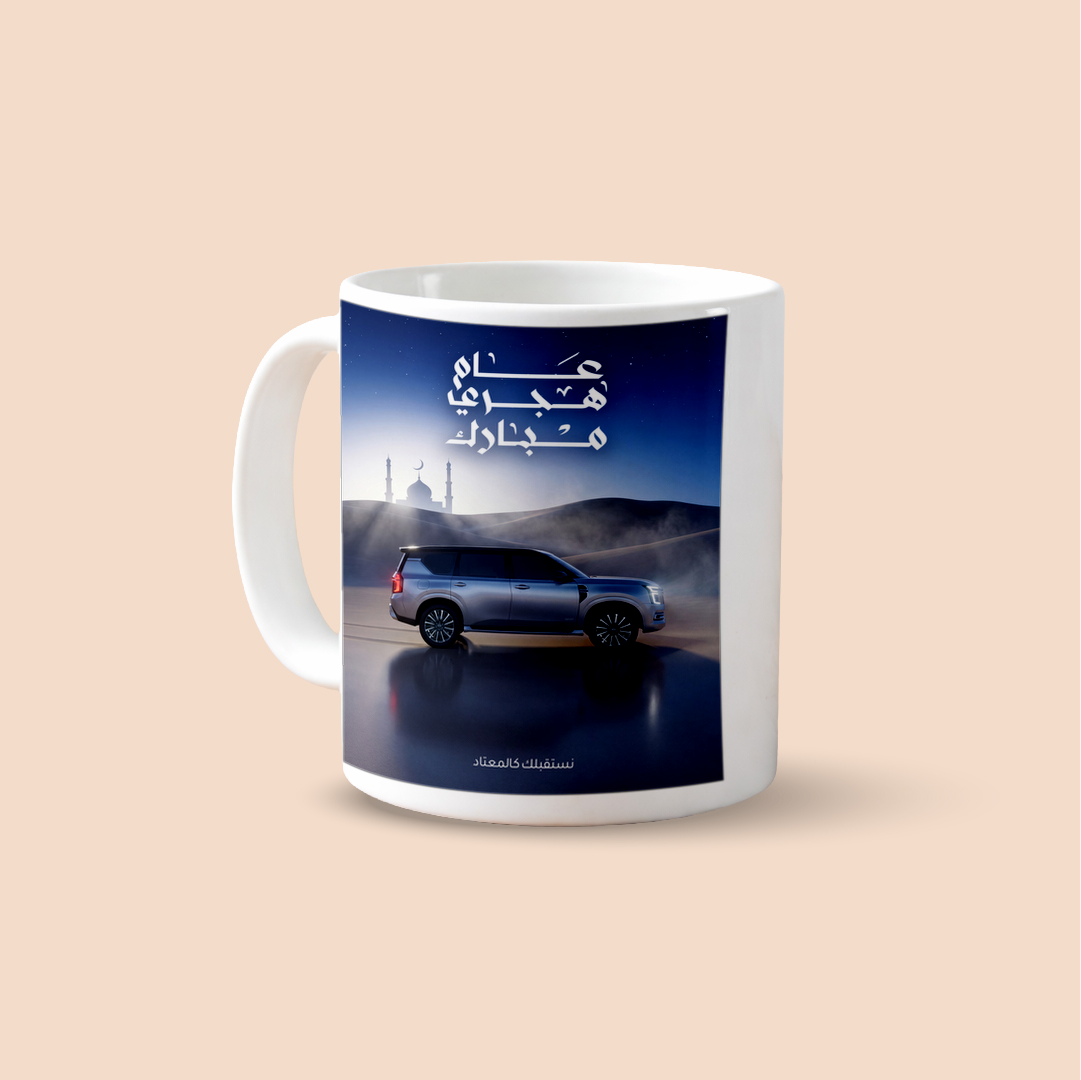
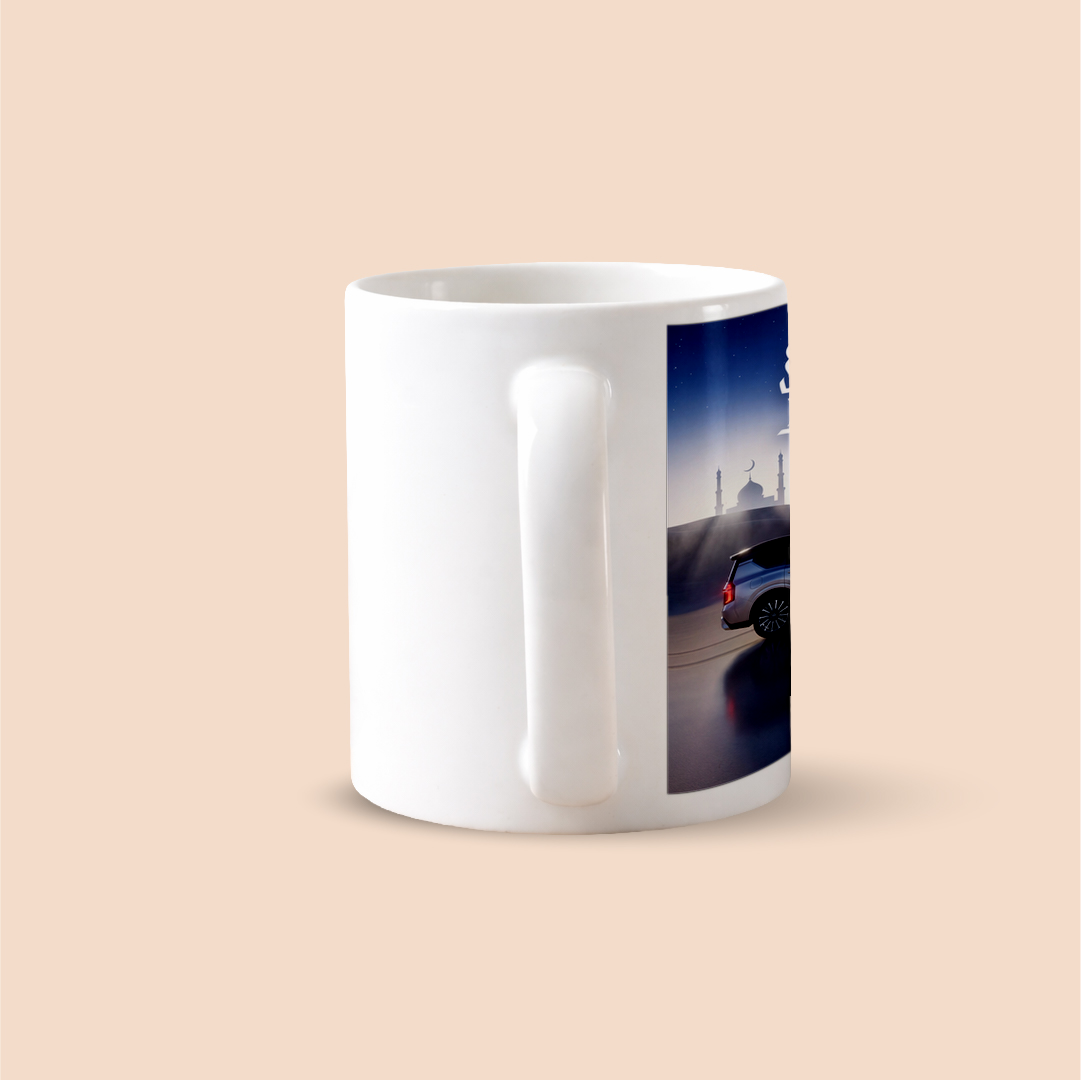
feat: improve PSD layer rendering accuracy by integrating topil extraction and refined opacity handling

Changed region(s): [[0.2137, 0.2444, 0.7327, 0.7944]]

diff --git a/genarate_mockup_tinker.py b/genarate_mockup_tinker.py
@@ -538,6 +538,7 @@ def render_full_mockup(psd, replacement_input, fit_mode="fill", use_mask=True,
         is_clipped = getattr(layer, "clipping", False)
         blend_mode = str(layer.blend_mode)
         opacity = layer.opacity / 255.0 if layer.opacity > 1 else layer.opacity
+        eff_opacity = opacity
 
         # Check if layer is a smart object with a replacement image assigned
         is_so = getattr(layer, "kind", None) == "smartobject"
@@ -564,19 +565,33 @@ def render_full_mockup(psd, replacement_input, fit_mode="fill", use_mask=True,
                     layer_rendered = Image.fromarray(arr, mode="RGBA")
 
         else:
-            # Render standard PSD layer content
+            # Render standard PSD layer content (overlays, shadows, background, etc.)
+            layer_rendered = Image.new("RGBA", (canvas_w, canvas_h), (0, 0, 0, 0))
+            bbox = layer.bbox
             try:
-                psd_comp = layer.composite()
-                if psd_comp is not None:
-                    layer_rendered = Image.new("RGBA", (canvas_w, canvas_h), (0, 0, 0, 0))
-                    bbox = layer.bbox
-                    if bbox and (bbox[2] > bbox[0]) and (bbox[3] > bbox[1]):
-                        mask = psd_comp if psd_comp.mode == "RGBA" else None
-                        layer_rendered.paste(psd_comp, (bbox[0], bbox[1]), mask)
+                topil_img = layer.topil()
+                if topil_img is not None and bbox and (bbox[2] > bbox[0]) and (bbox[3] > bbox[1]):
+                    if topil_img.mode != "RGBA":
+                        topil_img = topil_img.convert("RGBA")
+                    layer_rendered.paste(topil_img, (bbox[0], bbox[1]), topil_img)
+                    eff_opacity = opacity  # Raw alpha from topil needs layer opacity applied
                 else:
-                    layer_rendered = Image.new("RGBA", (canvas_w, canvas_h), (0, 0, 0, 0))
+                    psd_comp = layer.composite()
+                    if psd_comp is not None and bbox and (bbox[2] > bbox[0]) and (bbox[3] > bbox[1]):
+                        if psd_comp.mode != "RGBA":
+                            psd_comp = psd_comp.convert("RGBA")
+                        layer_rendered.paste(psd_comp, (bbox[0], bbox[1]), psd_comp)
+                        eff_opacity = 1.0  # Opacity already baked into composite alpha
             except Exception:
-                layer_rendered = Image.new("RGBA", (canvas_w, canvas_h), (0, 0, 0, 0))
+                try:
+                    psd_comp = layer.composite()
+                    if psd_comp is not None and bbox and (bbox[2] > bbox[0]) and (bbox[3] > bbox[1]):
+                        if psd_comp.mode != "RGBA":
+                            psd_comp = psd_comp.convert("RGBA")
+                        layer_rendered.paste(psd_comp, (bbox[0], bbox[1]), psd_comp)
+                        eff_opacity = 1.0
+                except Exception:
+                    pass
 
         # Handle stencil clipping mask
         if is_clipped and last_base_alpha is not None:
@@ -586,8 +601,8 @@ def render_full_mockup(psd, replacement_input, fit_mode="fill", use_mask=True,
         elif not is_clipped:
             last_base_alpha = layer_rendered.getchannel("A")
 
-        # Blend layer into master accumulated canvas
-        accumulated_canvas = apply_blend_mode(accumulated_canvas, layer_rendered, blend_mode, opacity)
+        # Blend layer into master accumulated canvas in strict z-order
+        accumulated_canvas = apply_blend_mode(accumulated_canvas, layer_rendered, blend_mode, eff_opacity)
 
     return accumulated_canvas.convert("RGB")
 